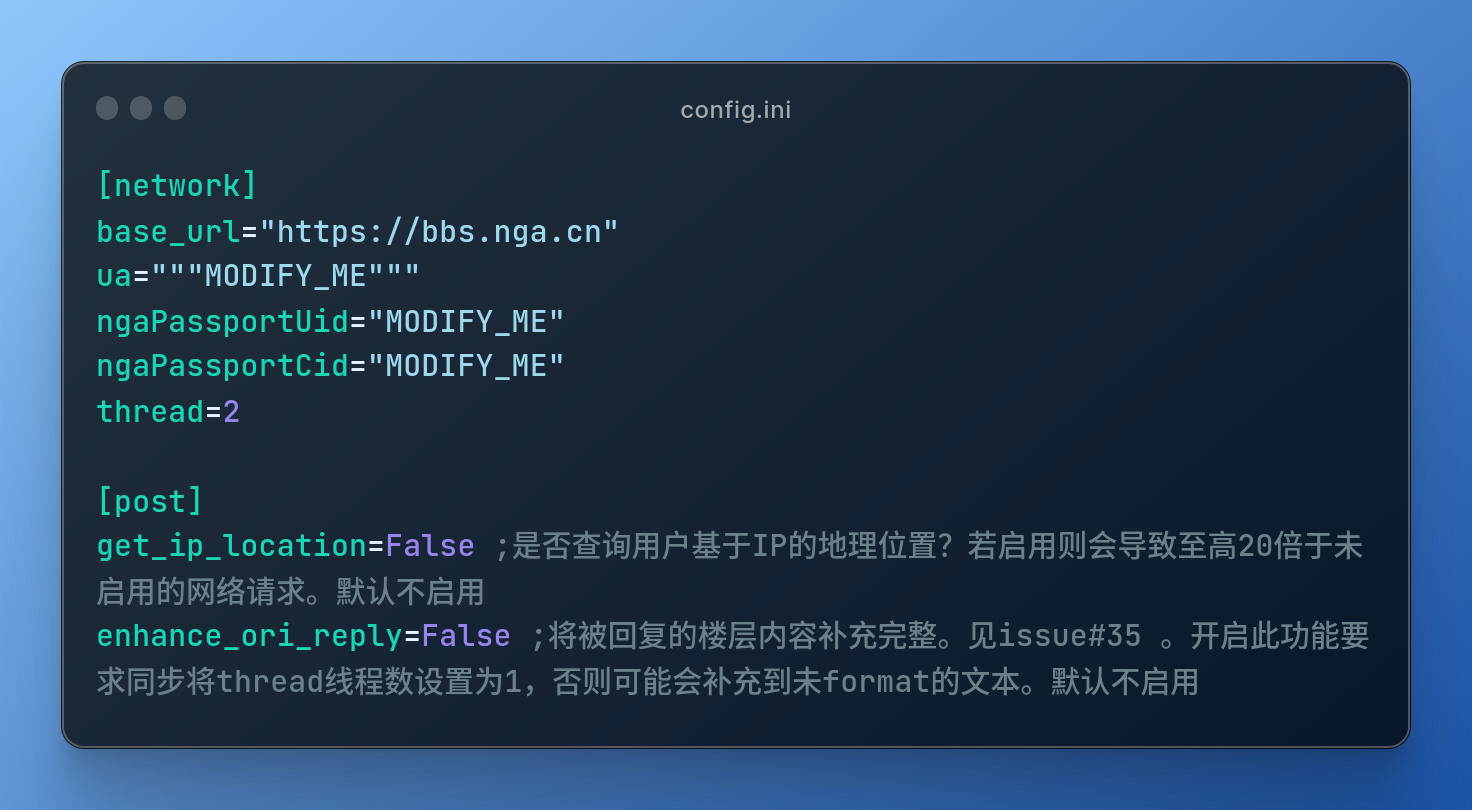
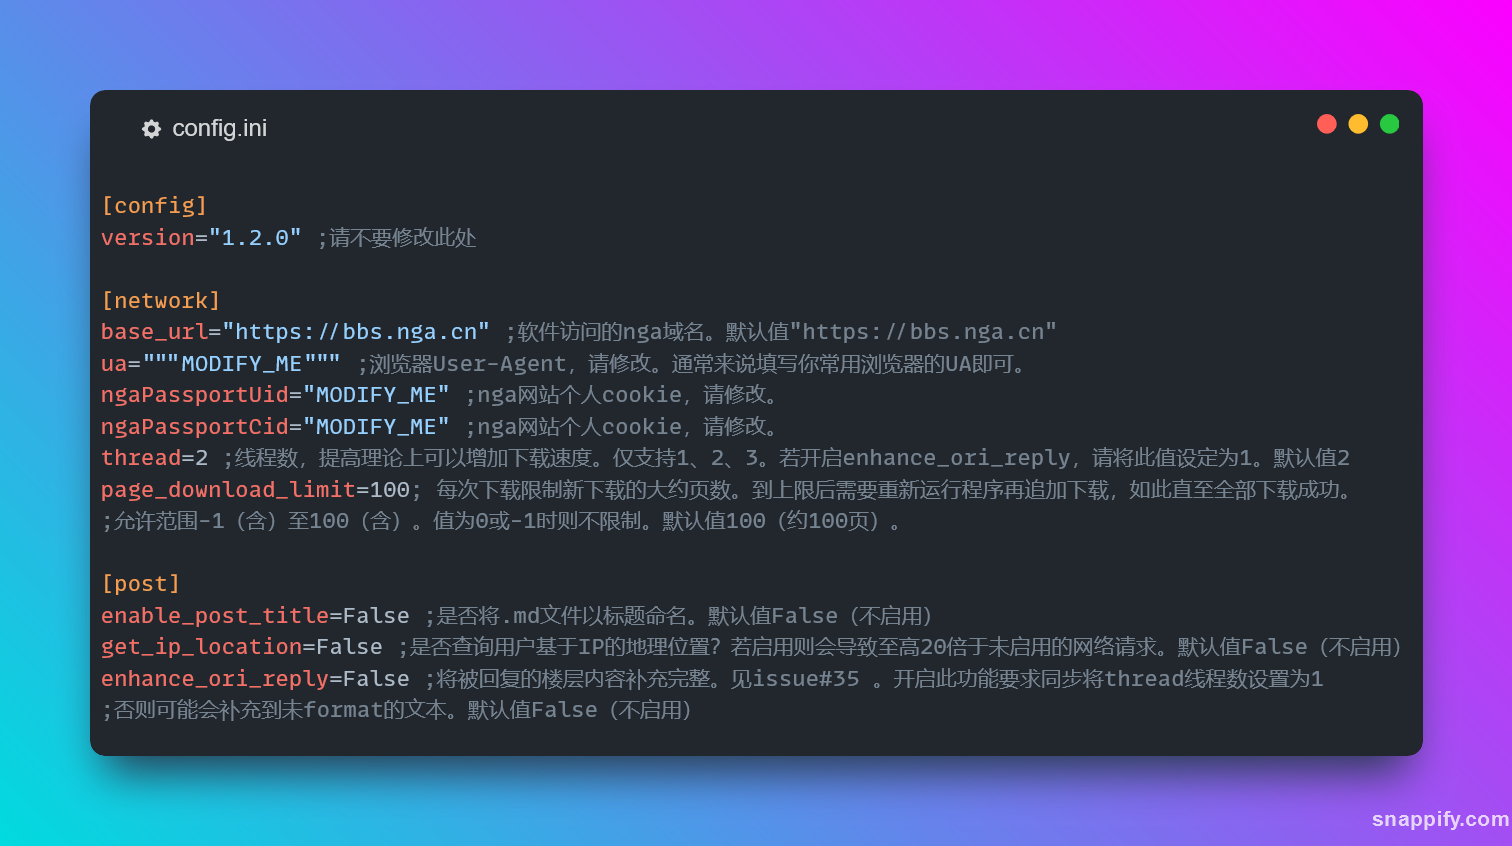
feat: 默认限制单次下载的页数
close #56

diff --git a/nga/nga.go b/nga/nga.go
@@ -20,22 +20,26 @@ import (
 
 // 这里是配置文件可以改的
 var (
-	THREAD_COUNT      = 2
-	GET_IP_LOCATION   = false
-	ENHANCE_ORI_REPLY = false //功能见 #35
-	ENABLE_POST_TITLE = false //添加功能#21
+	THREAD_COUNT        = 2
+	GET_IP_LOCATION     = false
+	ENHANCE_ORI_REPLY   = false //功能见 #35
+	ENABLE_POST_TITLE   = false //添加功能#21
+	PAGE_DOWNLOAD_LIMIT = 100   //#56
 )
 
 // 这里传参可以改
-var (
-	OVERRIDE_WEB_MAX_PAGE = -1 //当>0后则强制仅下载到此页
-)
+var ()
 
 // 这里配置文件和传参都没法改
 var (
-	VERSION  = "NEO_1.1.0"
+	VERSION  = "NEO_1.2.0"
 	DELAY_MS = 330
 	mutex    sync.Mutex
+)
+
+// Flag 相关
+var (
+	page_download_limit_triggered = false
 )
 
 // ldflags 区域。GitHub Actions 编译时会使用 ldflags 来修改如下值：
@@ -176,6 +180,10 @@ func (tiezi *Tiezi) page(page int) {
 		//总页数
 		value_int, _ = jsonparser.GetInt(resp.Bytes(), "totalPage")
 		tiezi.WebMaxPage = cast.ToInt(value_int)
+		if PAGE_DOWNLOAD_LIMIT > 0 && tiezi.WebMaxPage > (tiezi.LocalMaxPage+PAGE_DOWNLOAD_LIMIT) {
+			tiezi.WebMaxPage = tiezi.LocalMaxPage + PAGE_DOWNLOAD_LIMIT
+			page_download_limit_triggered = true
+		}
 
 		//楼层数，楼主也算一层
 		value_int, _ = jsonparser.GetInt(resp.Bytes(), "vrows")
@@ -200,7 +208,6 @@ func (tiezi *Tiezi) page(page int) {
 /**
  * @description: 本地未生成过。初始化主楼和第一页
  * @param {int} tid 帖子tid
- * @param {int} force_max_page
  * @return {*}
  */
 func (tiezi *Tiezi) InitFromWeb(tid int) {
@@ -209,14 +216,13 @@ func (tiezi *Tiezi) InitFromWeb(tid int) {
 	tiezi.Assets = map[string]string{}
 	tiezi.LocalMaxPage = 1
 	tiezi.LocalMaxFloor = -1
-	log.Printf("处理第 %02d 页\n", tiezi.LocalMaxPage)
+	log.Printf("下载第 %02d 页\n", tiezi.LocalMaxPage)
 	tiezi.page(tiezi.LocalMaxPage)
 }
 
 /**
  * @description: 本地已经有生成过，现在来根据local信息来追加下载新楼层。
  * @param {int} tid 帖子tid
- * @param {int} force_max_page 指定下载到的最大页数。需要比实际帖子页数小。-1以忽略
  * @return {*}
  */
 func (tiezi *Tiezi) InitFromLocal(tid int) {
@@ -244,7 +250,7 @@ func (tiezi *Tiezi) InitFromLocal(tid int) {
 	tiezi.LocalMaxPage = cfg.Section("local").Key("max_page").MustInt(1)
 	tiezi.LocalMaxFloor = cfg.Section("local").Key("max_floor").MustInt(-1)
 	tiezi.Oldtitle = cfg.Section("local").Key("title").String()
-	log.Printf("处理第 %02d 页\n", tiezi.LocalMaxPage)
+	log.Printf("下载第 %02d 页\n", tiezi.LocalMaxPage)
 	tiezi.page(tiezi.LocalMaxPage)
 
 }
@@ -365,9 +371,9 @@ func (tiezi *Tiezi) fixContent(floor_i int) {
 			if !ok {
 				mutex.Unlock()
 				time.Sleep(time.Millisecond * time.Duration(DELAY_MS))
-				log.Println("开始下载图片:", fileName)
+				log.Println("下载图片:", fileName)
 				downloadAssets(url, `./`+cast.ToString(tid)+`/`+fileName)
-				log.Println("下载图片成功:", fileName)
+				//log.Println("下载图片成功:", fileName)
 			} else {
 				mutex.Unlock()
 			}
@@ -673,7 +679,7 @@ func (tiezi *Tiezi) Download() {
 		var wg sync.WaitGroup
 		p, _ := ants.NewPoolWithFunc(THREAD_COUNT, func(page interface{}) {
 			time.Sleep(time.Millisecond * time.Duration(DELAY_MS))
-			responseChannel <- fmt.Sprintf("处理第 %02d 页", page)
+			responseChannel <- fmt.Sprintf("下载第 %02d 页", page)
 			//1. 并行下载page
 			tiezi.page(cast.ToInt(page))
 			wg.Done()
@@ -691,6 +697,9 @@ func (tiezi *Tiezi) Download() {
 
 		elapsedTime := time.Since(startTime) / time.Millisecond
 		log.Printf("下载所有页面总耗时: %dms\n", elapsedTime)
+		if page_download_limit_triggered {
+			log.Println("单次下载 Page 数已达上限！本次导出完毕后需要多次重新运行才可全部导出此帖内容。")
+		}
 
 		//2. 格式化content
 		tiezi.fixFloorContent(tiezi.LocalMaxFloor + 1)
@@ -721,5 +730,9 @@ func (tiezi *Tiezi) Download() {
 
 		//存储assets map
 		tiezi.SaveAssetsMap()
+		if page_download_limit_triggered {
+			log.Println("单次下载 Page 数已达上限！本次导出完毕后需要多次重新运行才可全部导出此帖内容。")
+		}
+		log.Println("本次任务结束。")
 	}
 }

diff --git a/main.go b/main.go
@@ -12,6 +12,11 @@ import (
 	"gopkg.in/ini.v1"
 )
 
+var (
+	//修改了 config.ini 文件后，需要同步修改此处和 assets/config.ini 文件里的 version
+	CONFIG_VERSION = "1.2.0"
+)
+
 func main() {
 	fmt.Printf("ngapost2md (c) ludoux [ GitHub: https://github.com/ludoux/ngapost2md/tree/neo ]\nVersion: %s\n", nga.VERSION)
 	if nga.DEBUG_MODE == "1" {
@@ -40,6 +45,9 @@ func main() {
 	if err != nil {
 		log.Fatalln("无法读取 config.ini 文件，请检查文件是否存在。错误信息:", err.Error())
 	}
+	if cfg.Section("config").Key("version").String() != CONFIG_VERSION {
+		log.Fatalf("config.ini 版本号(%s)与本软件所需版本(%s)不符！\n软件升级后，请使用最新的 config.ini 配置文件，并修改其内的 UA、uid、cid 和其它个性化设置\n", cfg.Section("config").Key("version").String(), CONFIG_VERSION)
+	}
 
 	//Cookie
 	var ngaPassportUid = cfg.Section("network").Key("ngaPassportUid").String()
@@ -52,6 +60,7 @@ func main() {
 	nga.UA = cfg.Section("network").Key("ua").String()
 	//默认线程数为2,仅支持1~3
 	nga.THREAD_COUNT = cfg.Section("network").Key("thread").InInt(2, []int{1, 2, 3})
+	nga.PAGE_DOWNLOAD_LIMIT = cfg.Section("network").Key("page_download_limit").RangeInt(100, -1, 100)
 	nga.GET_IP_LOCATION = cfg.Section("post").Key("get_ip_location").MustBool()
 	nga.ENHANCE_ORI_REPLY = cfg.Section("post").Key("enhance_ori_reply").MustBool()
 	nga.ENABLE_POST_TITLE = cfg.Section("post").Key("enable_post_title").MustBool()

diff --git a/README.md b/README.md
@@ -1,4 +1,4 @@
-# ngapost2md ver.[NEO_1.1.1]
+# ngapost2md ver.[NEO_1.2.0]
 
 快速爬楼存回复人+时间+内容，支持保存正文图片、音视频等，支持常见 bbcode 格式（具体见 README 后半部分）。
 
@@ -8,11 +8,17 @@
 
 1. 确保 `config.ini`  文件存在且与可执行文件在同一目录下（平级关系）
 2. 修改 `config.ini`  内的 `MODIFY_ME` 内容为相关内容
-3. 带参数（参数为帖子 tid）运行可执行文件，如 (Linux) `./app 5935947` 或者 (Windows) `.\app.exe 5935947`
+3. 带参数（参数为帖子 tid）运行可执行文件，如 (Linux) `./ngapost2md 5935947` 或者 (Windows) `.\ngapost2md.exe 5935947`
 
 ### 图片快速指引
 
 <img src="README.assets/edit_config_ini.png" width="700px" alt="修改config.ini">
+
+## 注意事项
+
+1. `NEO_1.1.1` 及之前，存在 读写 assets.json 失败导致软件报错闪退的情况（见 [Commit dee1f72](https://github.com/ludoux/ngapost2md/commit/dee1f72) ）。请升级至最新版本。
+2. `NEO_1.2.0` 及以后，默认配置项 `page_download_limit=100` 会限制每次下载的页数为 100. 单次下载完毕后，需要重新运行软件才会继续下载后续 100 页，以此逻辑直至完成。
+3. 升级后，请使用随新版本分发的新的 config.ini 文件，并将旧文件中修改的部分同步修改到新的 config.ini 文件内。使用旧的 config.ini 文件会导致异常行为。
 
 ## 资瓷与不资瓷格式说明
 
@@ -38,5 +44,6 @@
 
 ## Special Thanks
 
+- 特别感谢 [zsq @oarinv](https://github.com/oarinv) 的协助！
 - 特别感谢 [crella6](https://github.com/crella6) 的捉虫以及意见！
-- 感谢 [proItheus](https://github.com/proItheus) 及 [zsq @oarinv](https://github.com/oarinv) 对此项目的帮助！
+- 感谢 [proItheus](https://github.com/proItheus) 对此项目的帮助！
